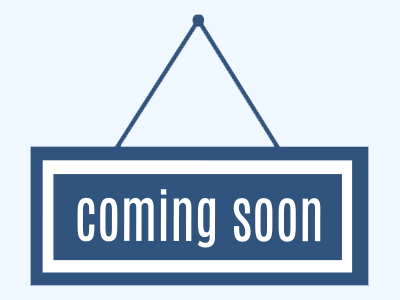
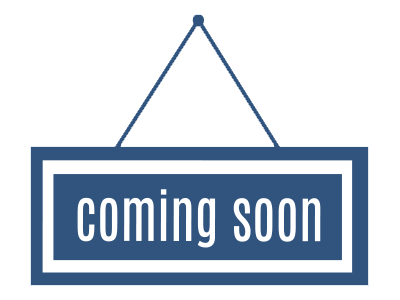
Fixed the images display and added figure and figcaptain

diff --git a/index.html b/index.html
@@ -45,22 +45,51 @@
       <h3>Work</h3>
       <div id="workGrid">
         <div id="work1" class="workGridArea">
-          <div class="heading"><a href="https://question-everything.co.uk/">Rethinking&nbsp;Prisoners</a><br />WordPress/PHP/JavaScript&nbsp;pwd:&nbsp;G0t0j51l</div>
+          <div class="heading">
+            <figure id="feature">
+              <a href="https://question-everything.co.uk/"><img id="feature" src="images/rethinking-prisoners.png" alt="Rethinking Prisoners website"></a>
+                <figcaption>Rethinking&nbsp;Prisoners&nbsp;-&nbsp;WordPress/PHP/JavaScript&nbsp;pwd:&nbsp;G0t0j51l</figcaption>
+            </figure>
+          </div>
         </div>
+
         <div id="work2" class="workGridArea">
-          <div class="heading"><a href="https://stephdavid.github.io/landing-page/">Yummy&nbsp;Hallowe'en</a><br >HTML/CSS/Graphics</div>
+          <div class="heading">
+            <figure>
+              <a href="https://stephdavid.github.io/landing-page/"><img src="images/yummy-halloween.png" alt="Yummy Hallowe'en landing page"></a>
+                <figcaption>Yummy&nbsp;Hallowe'en&nbsp;-&nbsp;HTML/CSS/Graphics</figcaption>
+            </figure>
+          </div>
         </div>
+
         <div id="work3" class="workGridArea">
-          <div class="heading"></div>
+          <div class="heading">
+            <figure>
+              <a href="#"><img src="images/coming-soon.png" alt="Coming Soon"></a>
+                <!-- <figcaption></figcaption> -->
+            </figure>
+          </div>
         </div>
+
         <div id="work4" class="workGridArea">
-          <div class="heading"></div>
+          <div class="heading">
+            <figure>
+              <a href="#"><img src="images/coming-soon.png" alt="Coming Soon"></a>
+                <!-- <figcaption></figcaption> -->
+            </figure>
+          </div>
         </div>
+
         <div id="work5" class="workGridArea">
-          <div class="heading"></div>
+          <div class="heading">
+            <figure>
+              <a href="#"><img src="images/coming-soon.png" alt="Coming Soon"></a>
+                <!-- <figcaption></figcaption> -->
+            </figure>
+          </div>
         </div>
       </div>
-      <br /><br /><a href="#menu">Return to the menu</a>
+        <br /><br /><a href="#menu">Return to the menu</a>
     </section>
     <!-- contact -->
     <section class="page-section contact" id="contact">

diff --git a/css/style.css b/css/style.css
@@ -69,6 +69,7 @@ section.page-section p, ul, div {
 
 #work div {
   min-height: 300px;
+  min-width: 400px;
   display: grid;
   grid-template-rows: 20% 20% 20% 20% 20%;
   grid-template-columns: 100%;
@@ -82,41 +83,46 @@ section.page-section p, ul, div {
 
 #work1 {
   grid-area: work1;
-  background-image: url("../images/rethinking-prisoners.png");
-  background-size: contain;background-repeat: no-repeat;
- }
+  min-width: 800px;
+}
 
 #work2 {
-   grid-area: work2;
-   background-image: url("../images/yummy-halloween.png");
-   background-size: contain;
-   background-repeat: no-repeat;
+  grid-area: work2;
 }
 
 #work3 {
   grid-area: work3;
-  background-image: url("../images/coming-soon.png");
-  background-size: contain;
-  background-repeat: no-repeat;
 }
 
 #work4 {
   grid-area: work4;
-  background-image: url("../images/coming-soon.png");
-  background-size: contain;
-  background-repeat: no-repeat;
 }
 
 #work5 {
   grid-area: work5;
-  background-image: url("../images/coming-soon.png");
-  background-size: contain;    background-repeat: no-repeat;
 }
 
-.heading {
+#work2, #work3, #work4, #work5 {
+  min-width: 400px;
+} 
+
+.workGridArea {
+  margin-top: 60px;
+}
+
+figure {
+  width: 400px;
   font-weight: bolder;
 }
 
+figure#feature {
+  width: 800px;
+}
+
+figcaption {
+  padding: 5px;
+  background-color: var(--altbkd);
+}
 section.page-section ul {
   margin-top: 20px;
   display: flex;
@@ -227,4 +233,7 @@ section.page-section ul li {
     align-items: center;
     min-width: 700px;
   }
+
+
+
 }
